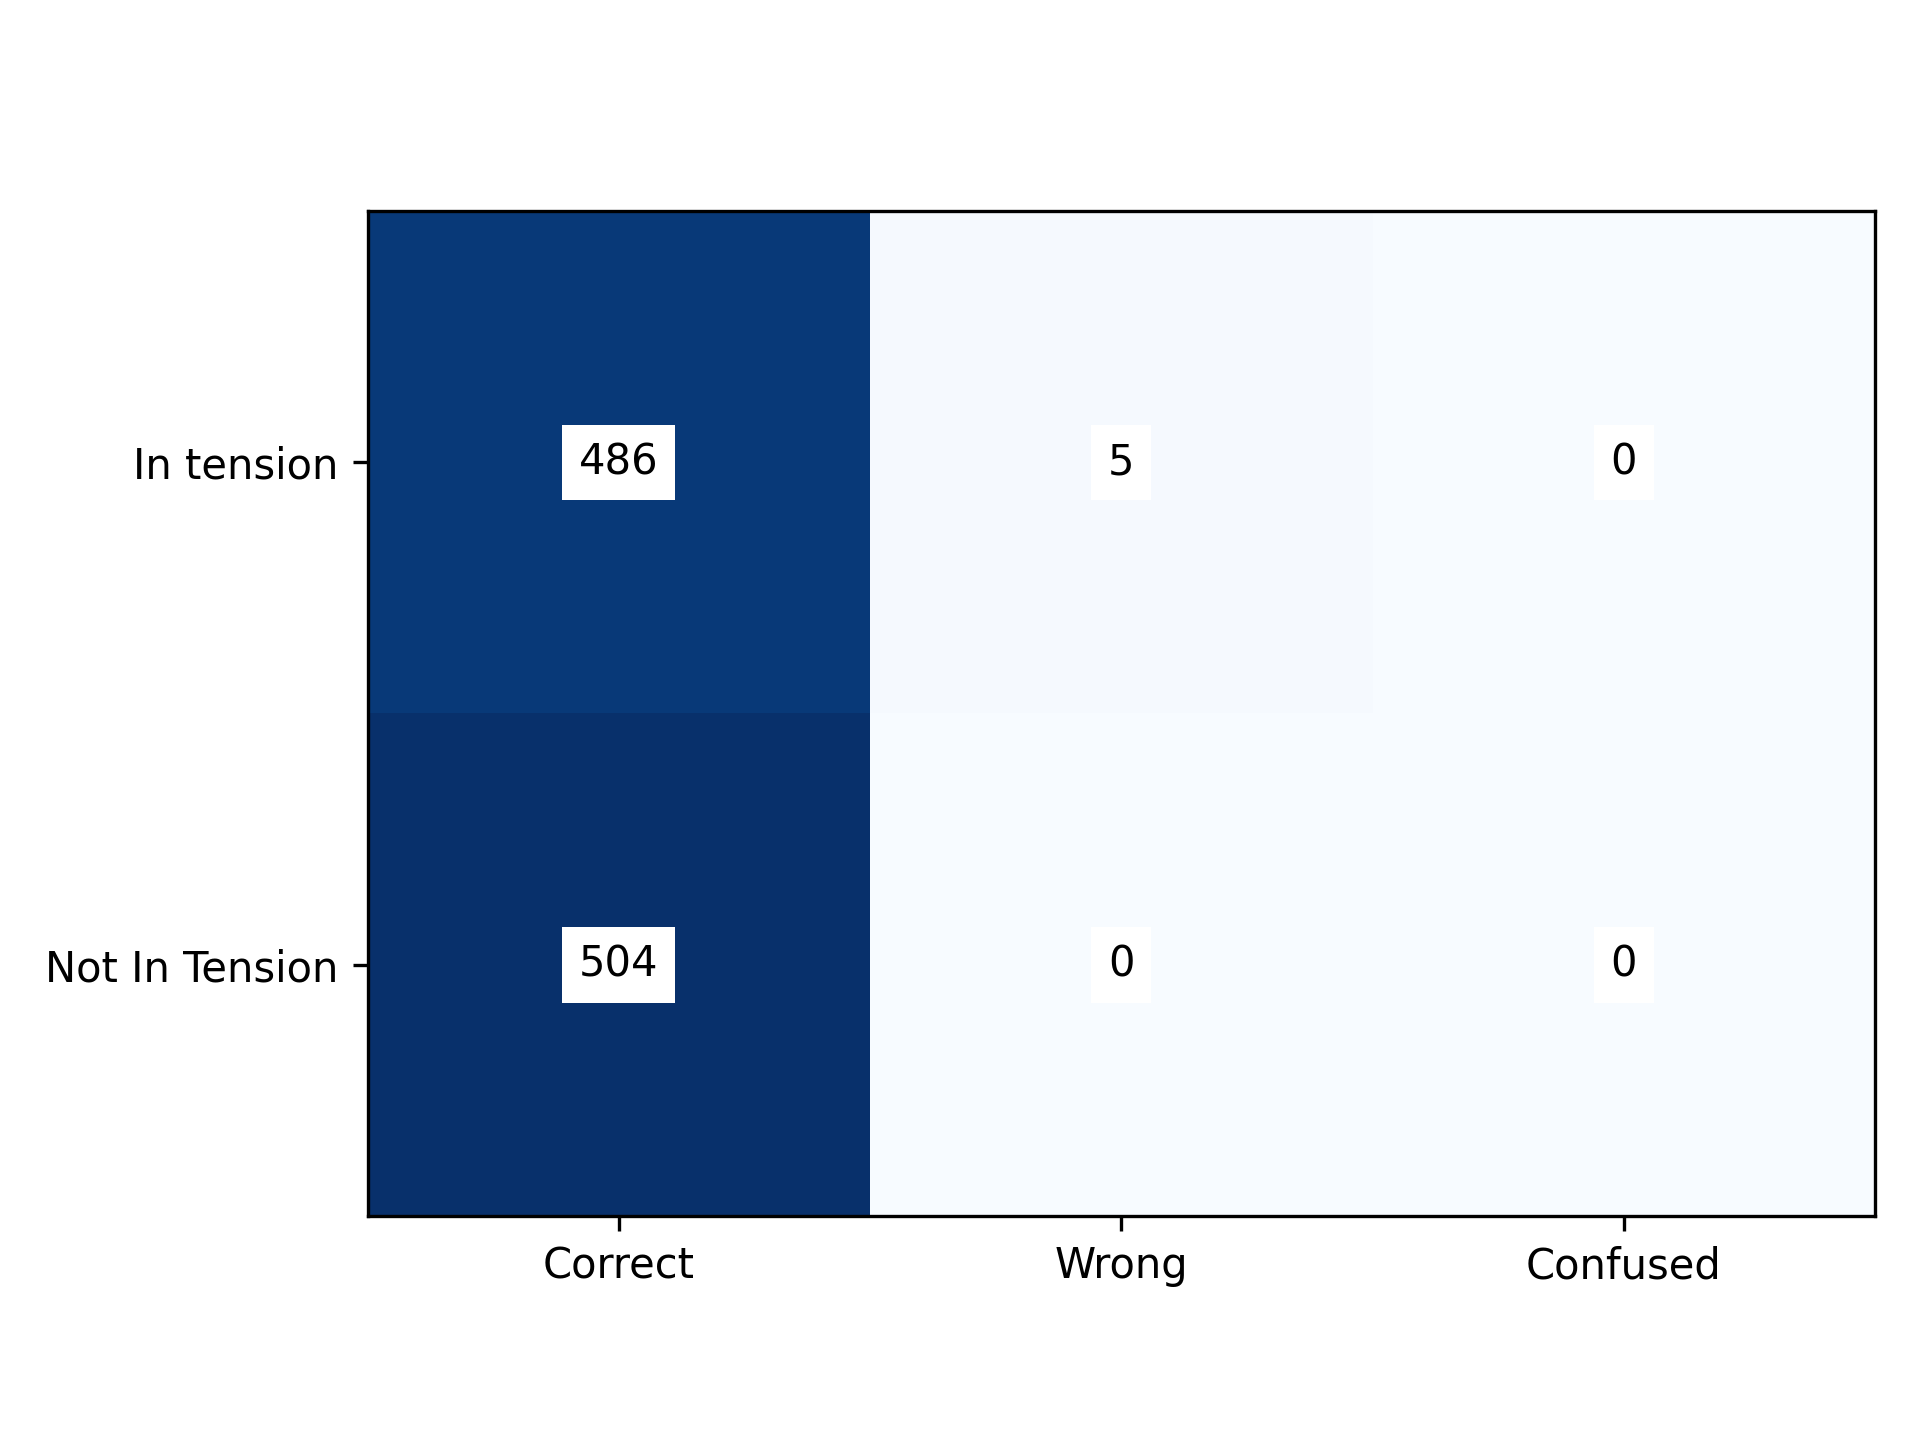
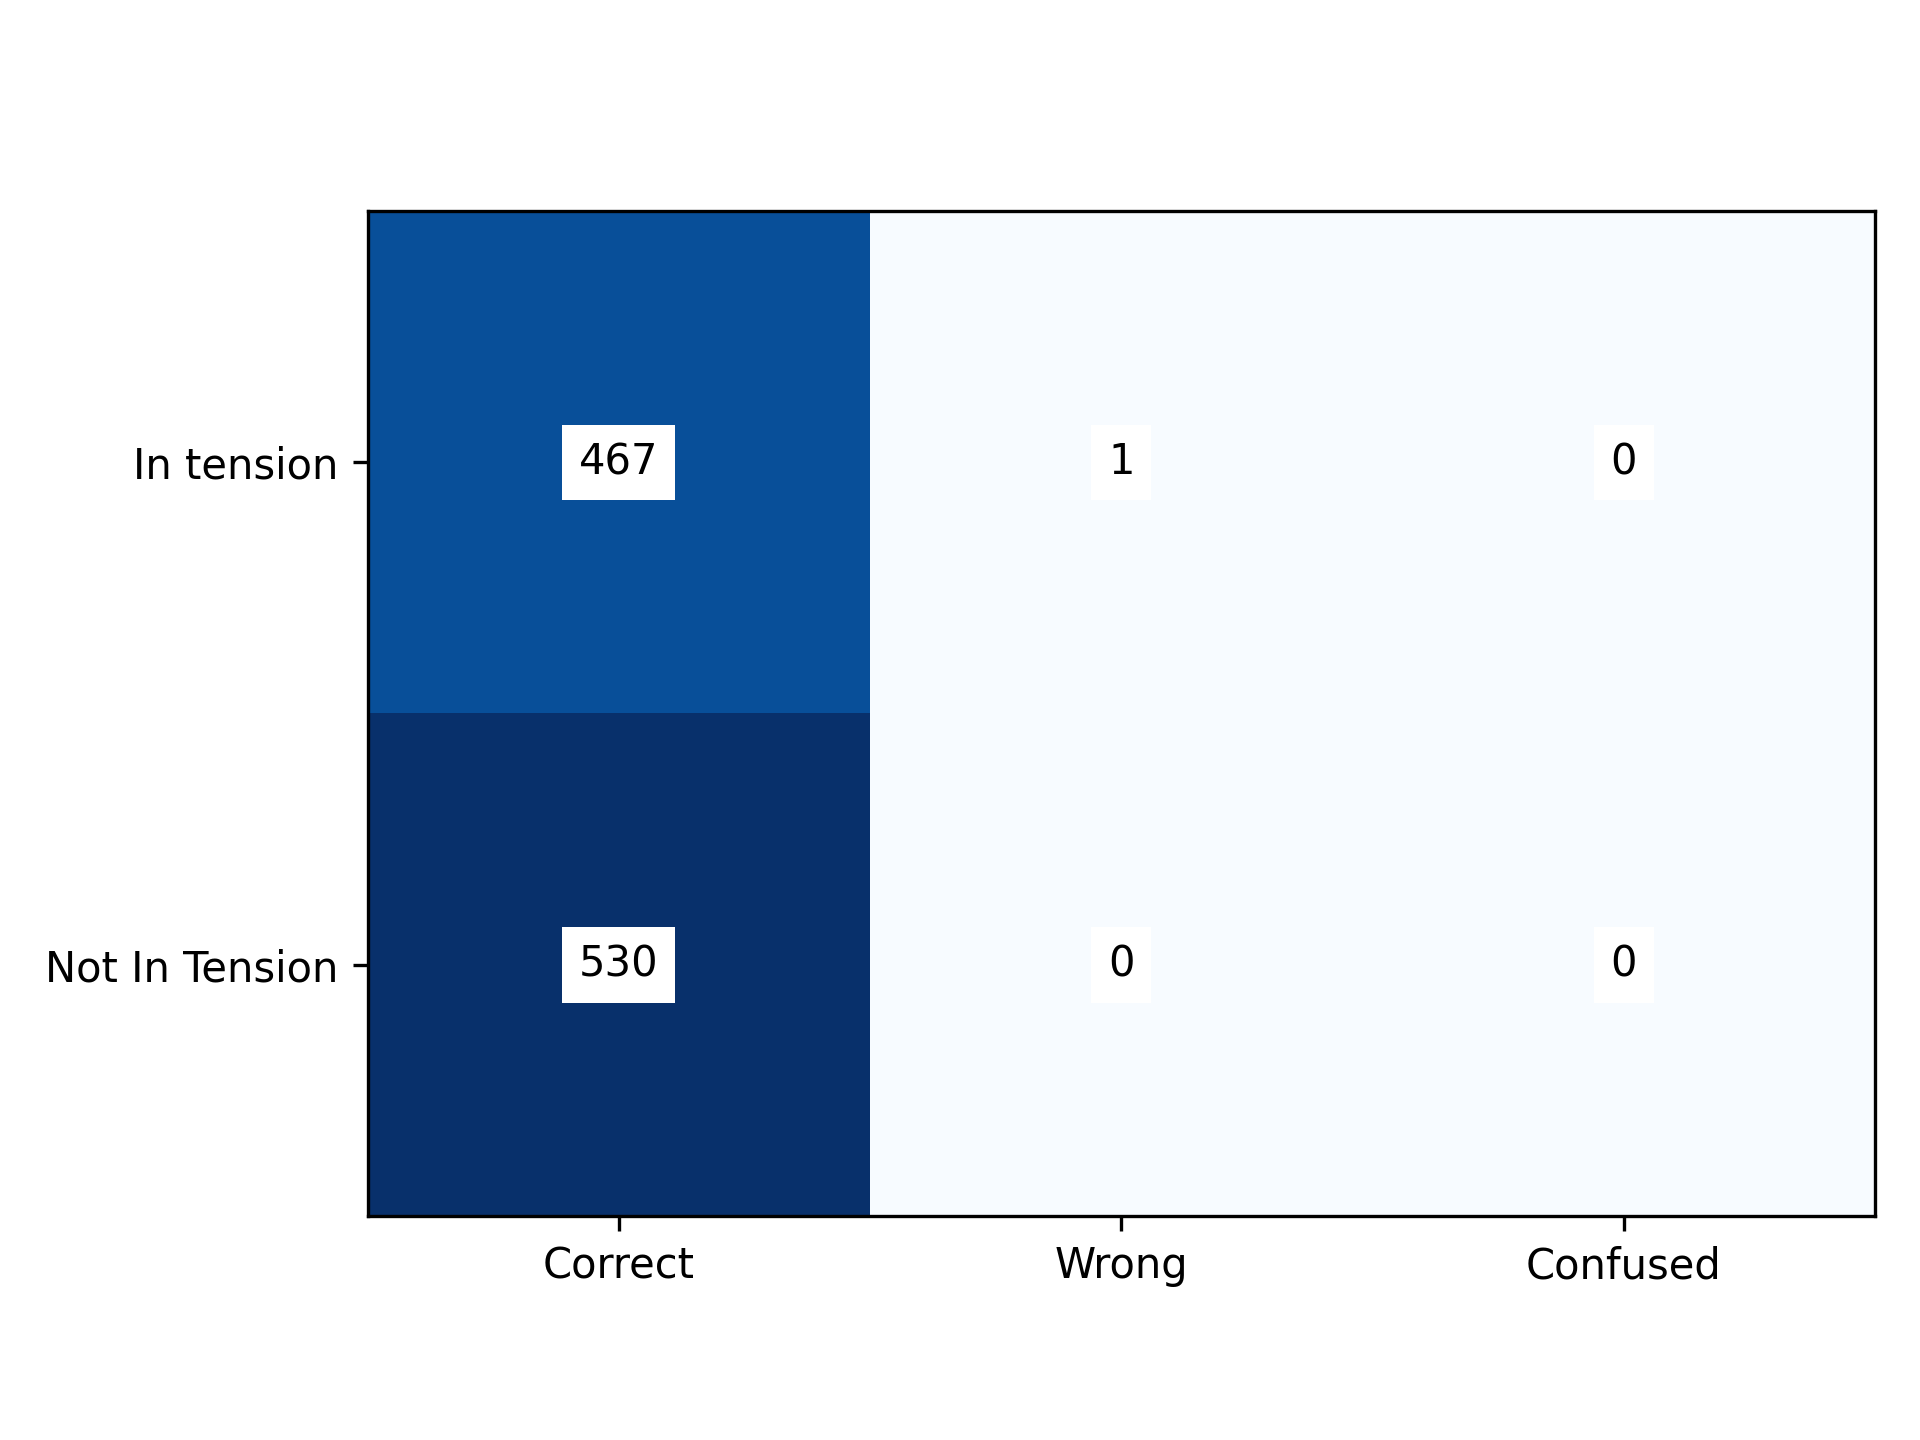
additional info in readme and updated label on graph

Changed region(s): [[0.1875, 0.125, 0.4688, 0.5], [0.5625, 0.3125, 0.5938, 0.3438], [0.3125, 0.6562, 0.3438, 0.6875]]

diff --git a/simple_data_call.py b/simple_data_call.py
@@ -65,7 +65,7 @@ for i in range(len(sigr)):
     if sigr[i] < 0.75:
         c += 1
 
-plt.hist(r[mask], bins=25, label=f'{c/len(sigr)*100:.2f} % Miss classified')
+plt.hist(r[mask], bins=25, label=f'{c/len(sigr)*100:.2f} % Mis-classified')
 plt.axvline(13.96, color='k', ls='--', label='No tension example')
 plt.axvline(-210.40, color='k', ls=':', label='In tension example')
 plt.xlabel(r'$\log R$')

diff --git a/README.md b/README.md
@@ -1,23 +1,19 @@
 Tensionnet
 ----------
 
-Idea is to use NREs to predict the plausible distribution of the tension statistic $R = \frac{P(A, B)}{P(A)P(B)}$ for two data sets with common parameters.
+Idea is to use NREs to predict the plausible distribution of the tension statistic $R = \frac{P(D_A, D_B)}{P(D_A)P(D_B)}$ over some prior and given a model choice for two data sets with common parameters.
 
-In order to do this we need a set of simulator for data set A and data set B with the same and mismatched common parameters. We then train the NRE to predict the ratio $R$ for pairs of realisations of each data set. 
+We need a set of simulations for data set A and data set B with the same and mismatched common parameters. We then train the NRE to predict the ratio $R$ for pairs of realisations of each data set. 
 
-Once trained we input a series of matched realisations of data set A and data set B. This gives us the plausible values of $R$ for the two data sets with which we can compare the true value for the real data calucalted with Nested Sampling runs. If $R_{obs}$ falls well within the distribution then we can conclude that the datasets are likely not in tension else if $R_{obs}$ falls in the tails then the data sets are in tension.
+Once trained we input a series of matched realisations of data set A and data set B. This gives us the plausible values of $R$ for the two data sets given the model over a prior. We can then use nested sampling to get $Z_A = P(D_A| M)$, $Z_B = P(B_A| M)$ and $Z_{A,B} = P(D_A, D_B |M)$ to get
 
-Need a simple test case to versify against. Maybe two in tension mock observations 21-cm signal + noise with no foregrounds.
+$R_{obs} = $\frac{Z_{A, B}}{Z_A Z_B} = \frac{P(D_A, D_B |M)}{P(D_A| M)P(D_B| M)}$.
 
-Stolen some of Thomas code for reading in the SARAS3 and EDGES data.
+If $R_{obs}$ falls well within the distribution then we can conclude that the datasets are likely not in tension (and probably caluclate to what degree?) else if $R_{obs}$ falls outside the distribution then the data sets are in tension.
 
-Network just uses a binary cross entropy + sigmoid on last layer which means it outputs
+Generated a mock example that is just two noisy gaussian absorption signals. See below.
 
-$\sigma (\log r) = \frac{1}{1 + \exp(-\log r)}$
-
-which we can recover r from by doing
-
-$r = \frac{\sigma}{1 - \sigma}$
+Network just uses a binary cross entropy + sigmoid on last layer. We can drop the last layer to get $\log(R)$ but we need it for training to turn $\log(R)$ into a probability.
 
 Toy Example
 -----------
@@ -26,10 +22,7 @@ Two experiments observing a gaussian absorption feature in different bands with
 the same level of noise.
 
 When I train the classifier I get the following confusion matrix for
-1000 test samples. Seems the network isn't very good at recognising when the
-data sets are not in tension which is where we need it to be performing well
-otherwise we cannot trust the predicted distribution for R.
-Here confused is any value of $R$ between 0.25 and 0.75. Otherwise prediction
+1000 test samples which looks good. Here confused is any value of $R$ between 0.25 and 0.75. Otherwise prediction
 is correct or wrong.
 
 ![confusion matrix](https://github.com/htjb/tension-networks/blob/main/test_confusion_matrix.png)
@@ -40,7 +33,7 @@ same parameters) of the two experiments I get the following distribution
 ![R distribution](https://github.com/htjb/tension-networks/blob/main/test_r_hist.png)
 
 where the dashed line is $R_{obs}$ for two experiments that observed the same
-signal and the dotten line is for two experiments in tension.
+signal and the dotten line is for two experiments in tension. Of the 2000 models histogrammed 0.15% were mis-classified as being in tension.
 
 The data corresponding to the two $R_{obs}$ values is shown below.
 
